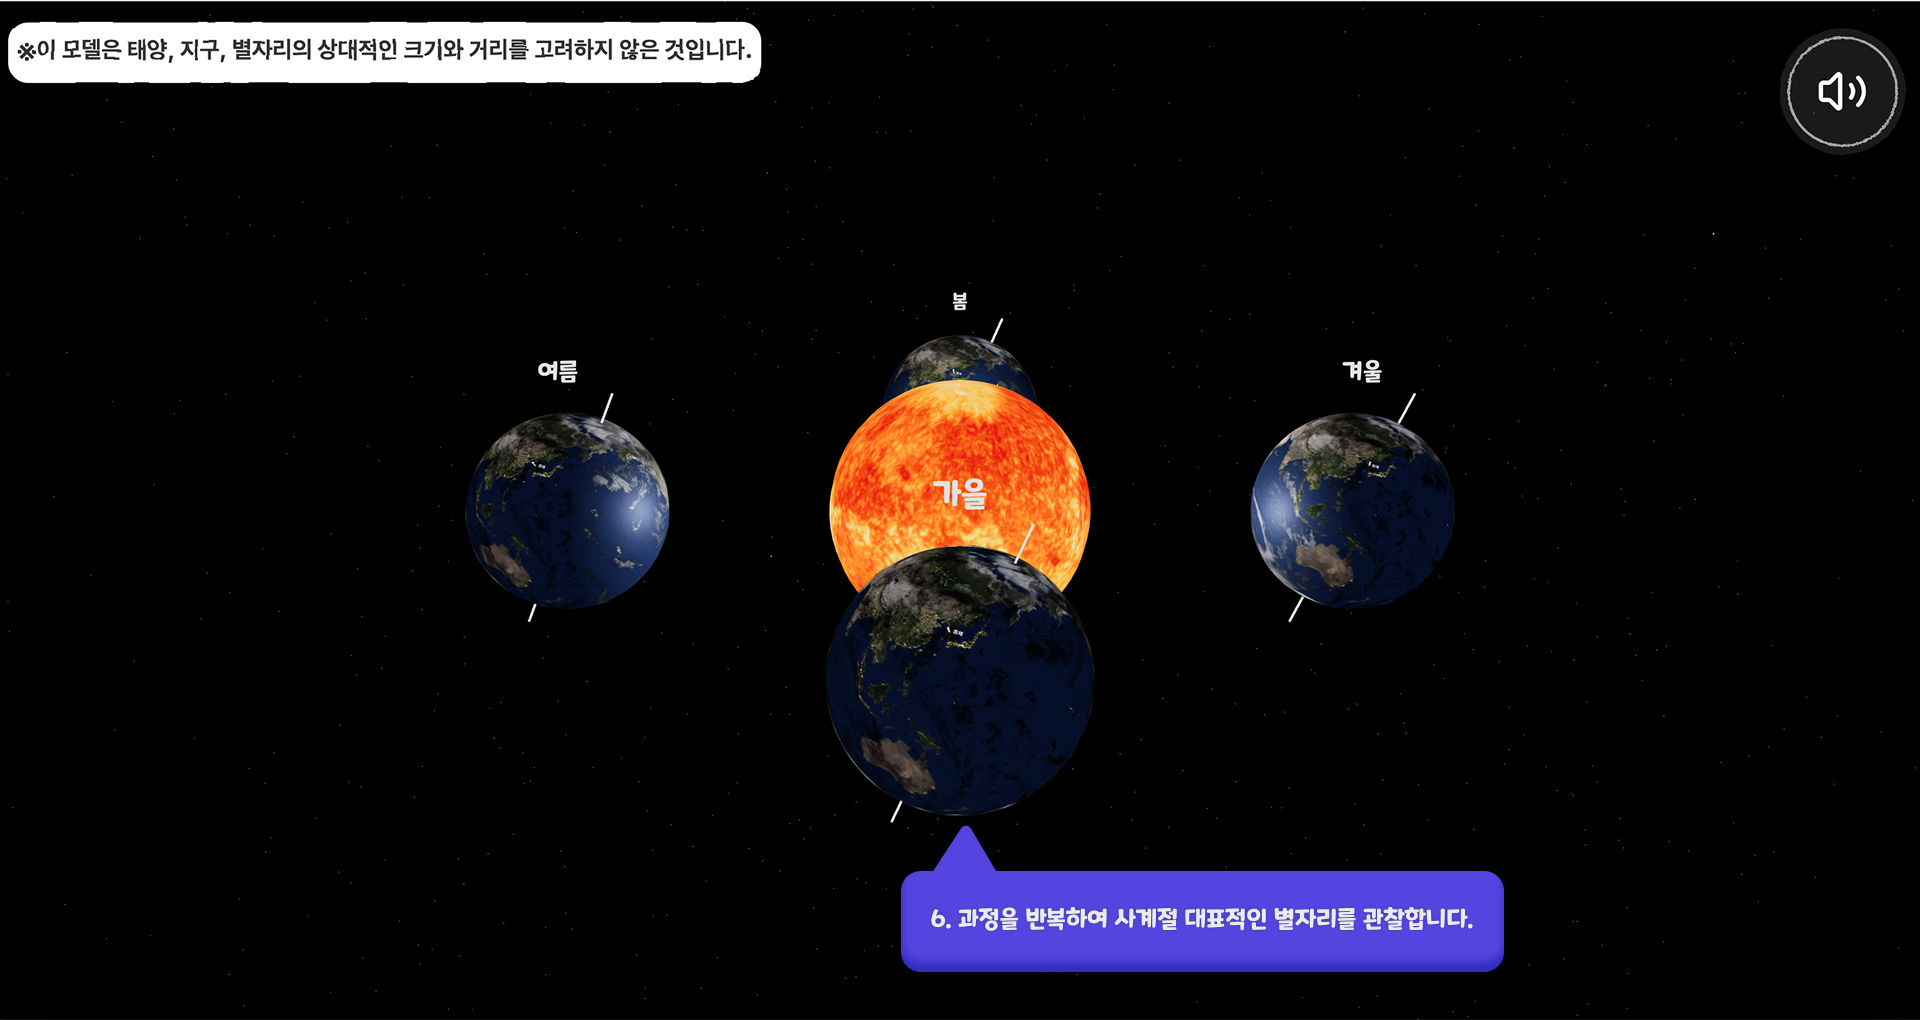
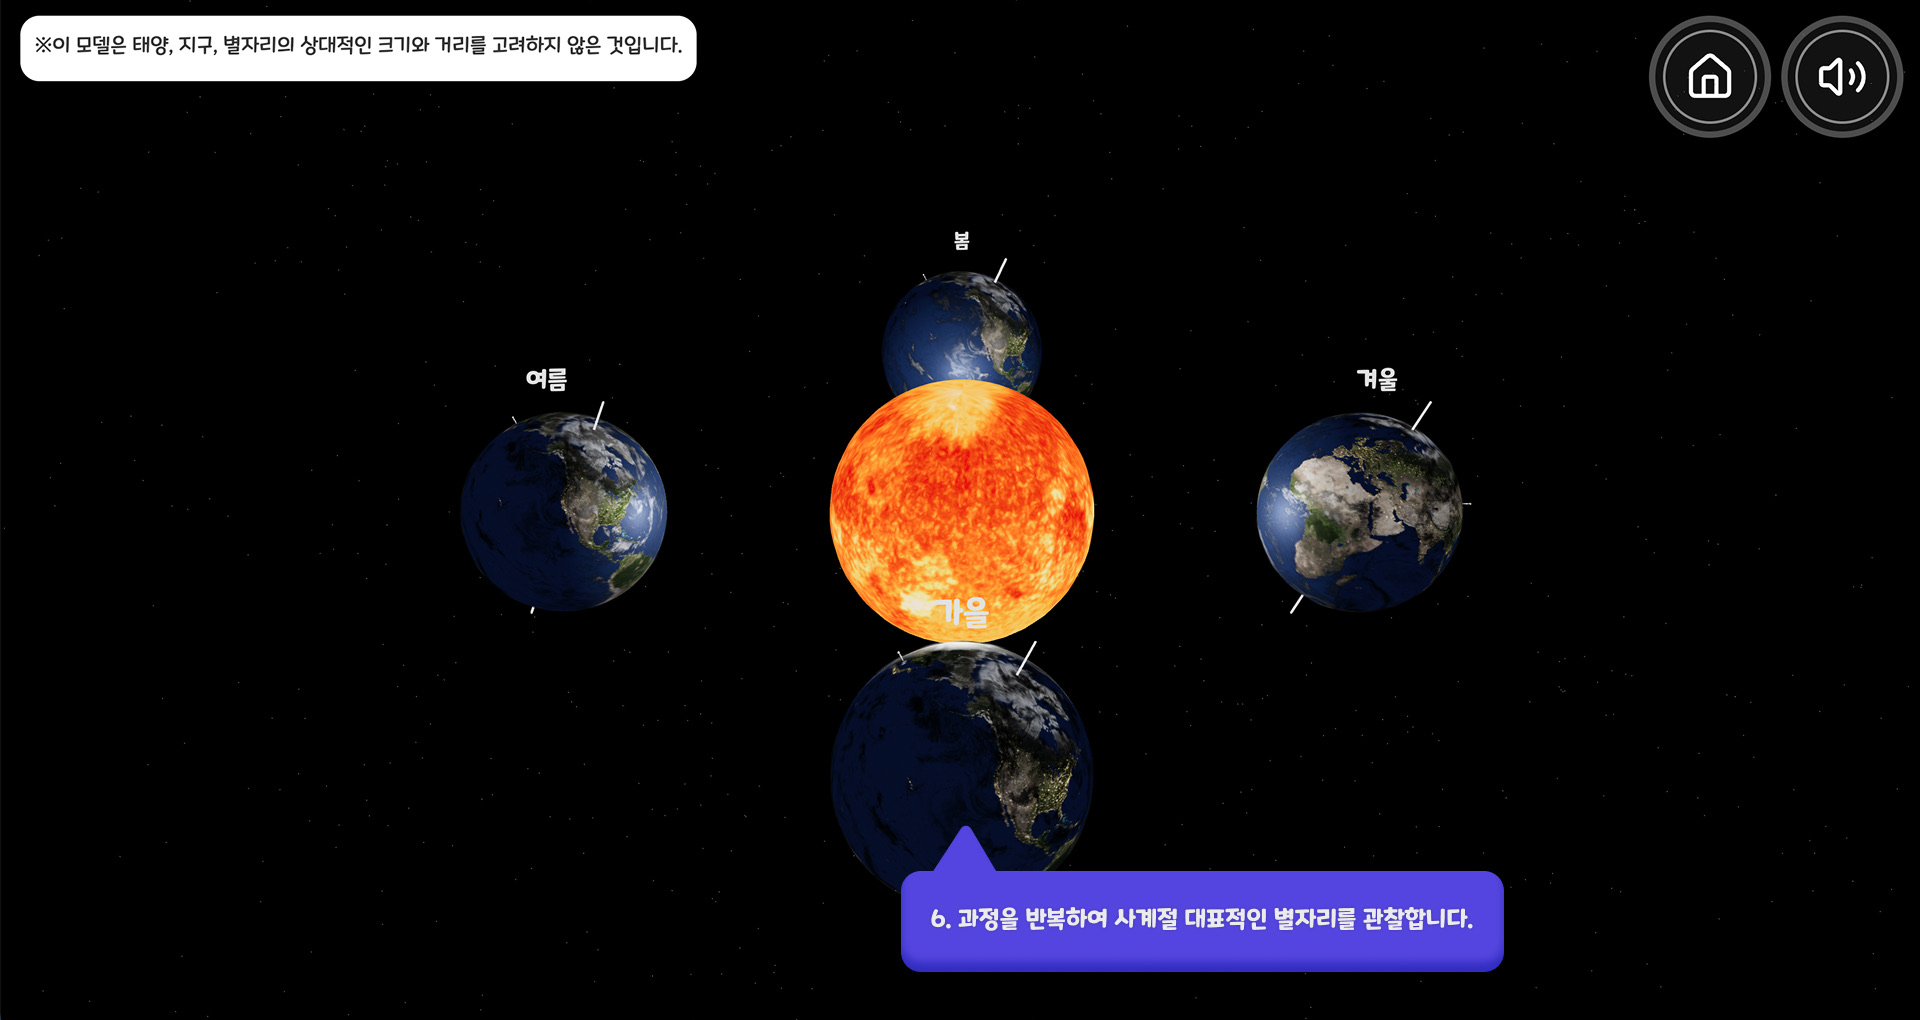
[update] 6-1-4 guidline

diff --git a/client/src/pages/6-1-4.tsx b/client/src/pages/6-1-4.tsx
@@ -150,10 +150,10 @@ export default function HomePage() {
             onClick={resetToIntro}
             width={96}
             height={96}
-            color='#ffffff'
+            color='rgba(255, 255, 255, 0.85)'
             textcolor='#ffffff'
-            bg={spaceTheme.goal.bg}
-            className='z-[1000]'
+            bg='rgba(255,255,255,0.30)'
+            className='background-blur z-[1000] mix-blend-difference'
             right={120}
             top={16}
             iconSize={40}
@@ -165,10 +165,10 @@ export default function HomePage() {
             onClick={toggleBgm}
             width={96}
             height={96}
-            color='#ffffff'
+            color='rgba(255, 255, 255, 0.85)'
             textcolor='#ffffff'
-            bg={spaceTheme.goal.bg}
-            className='z-[1000]'
+            bg='rgba(255, 255, 255, 0.30)'
+            className='background-blur z-[1000] mix-blend-difference'
             right={16}
             top={16}
             iconSize={40}
